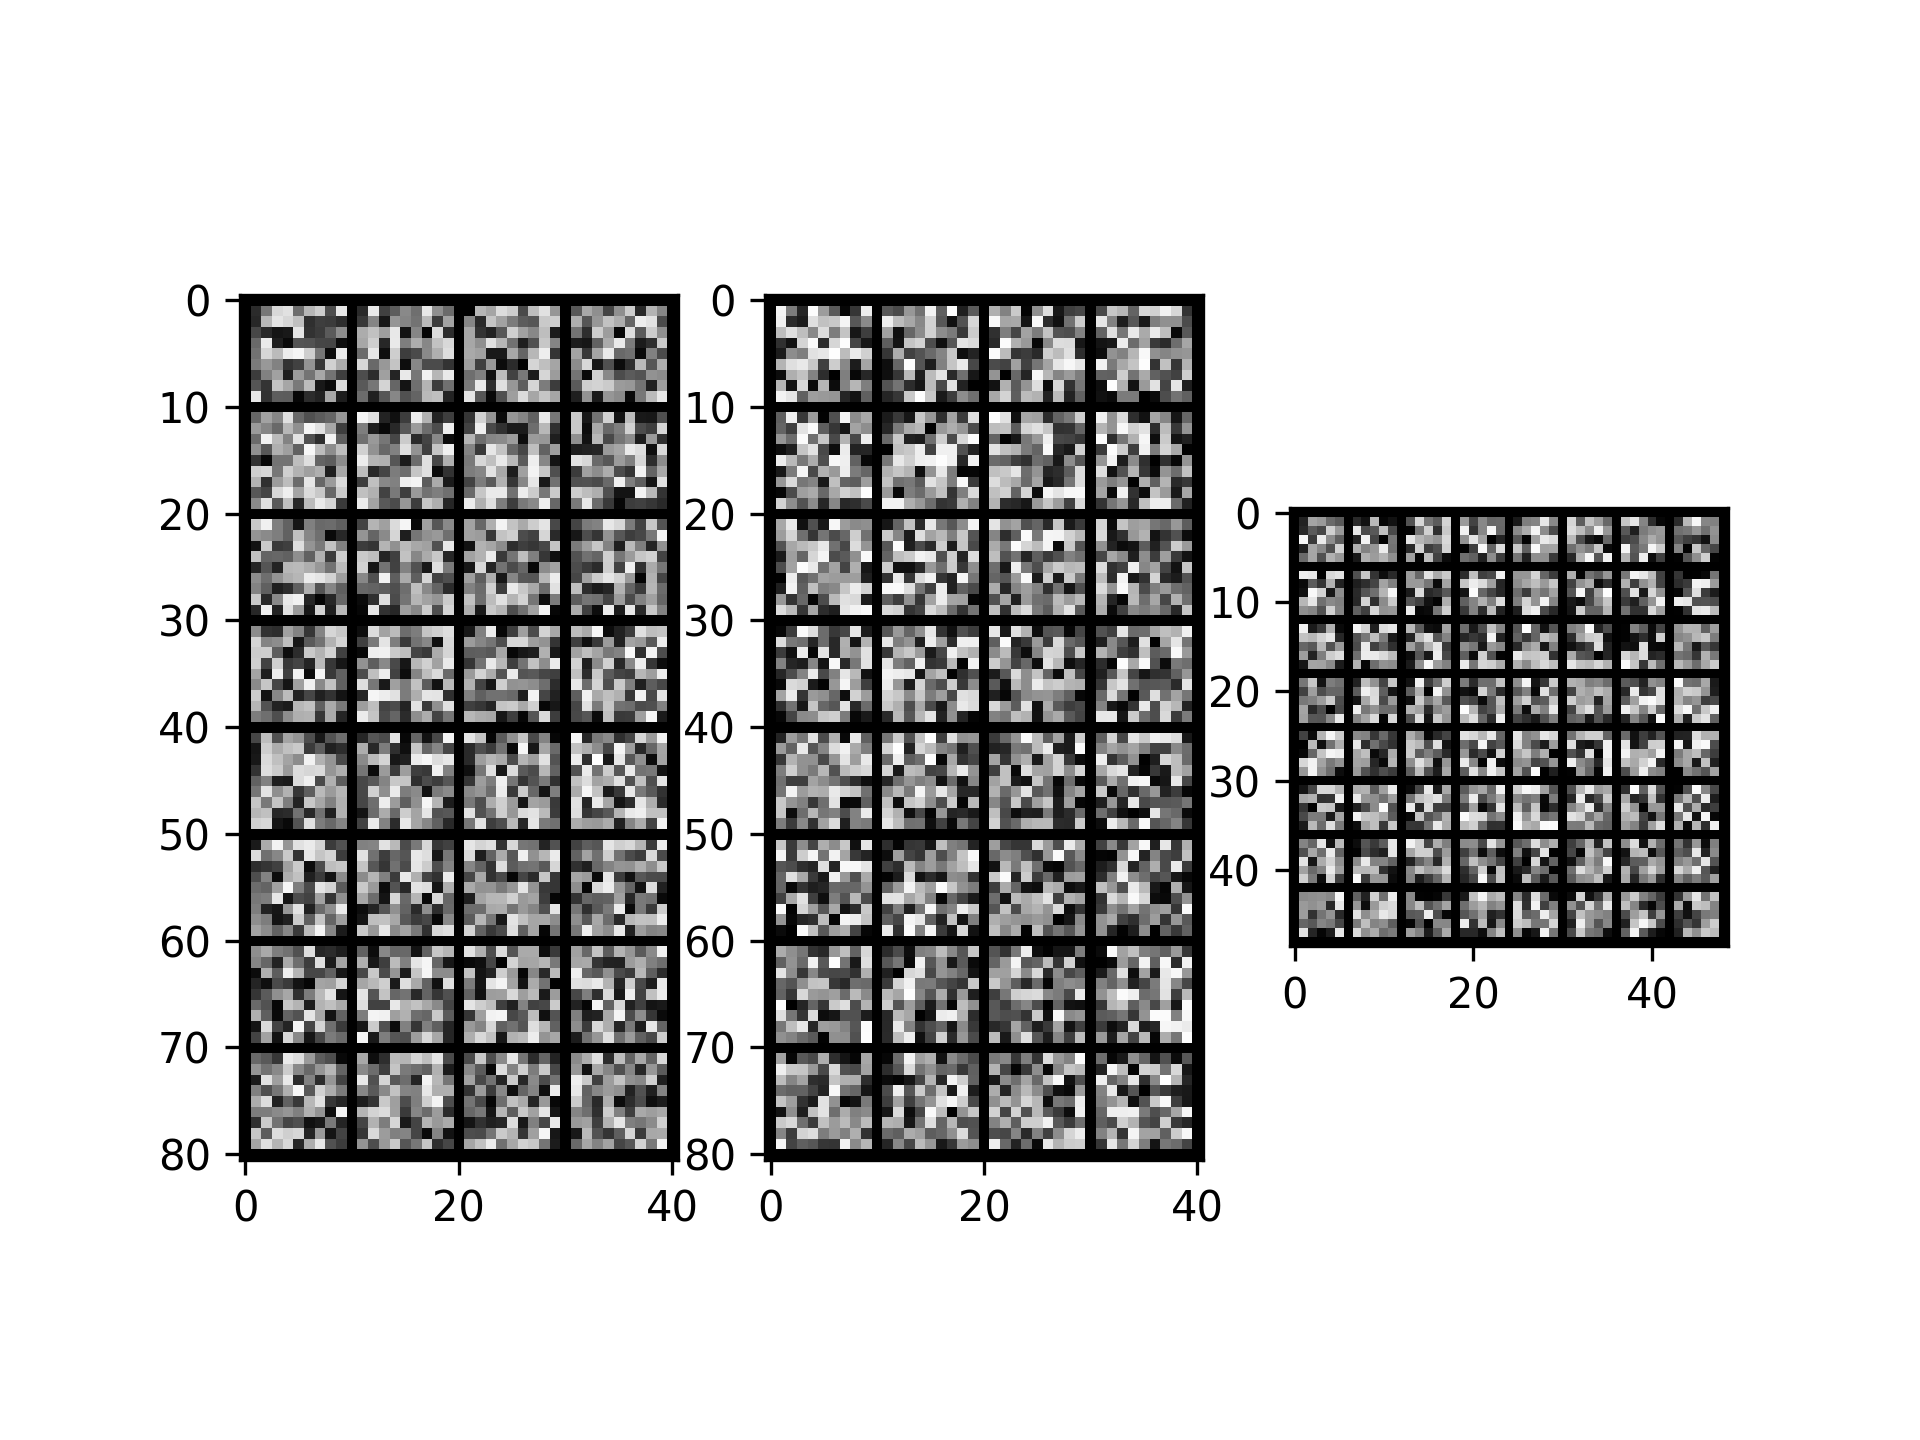
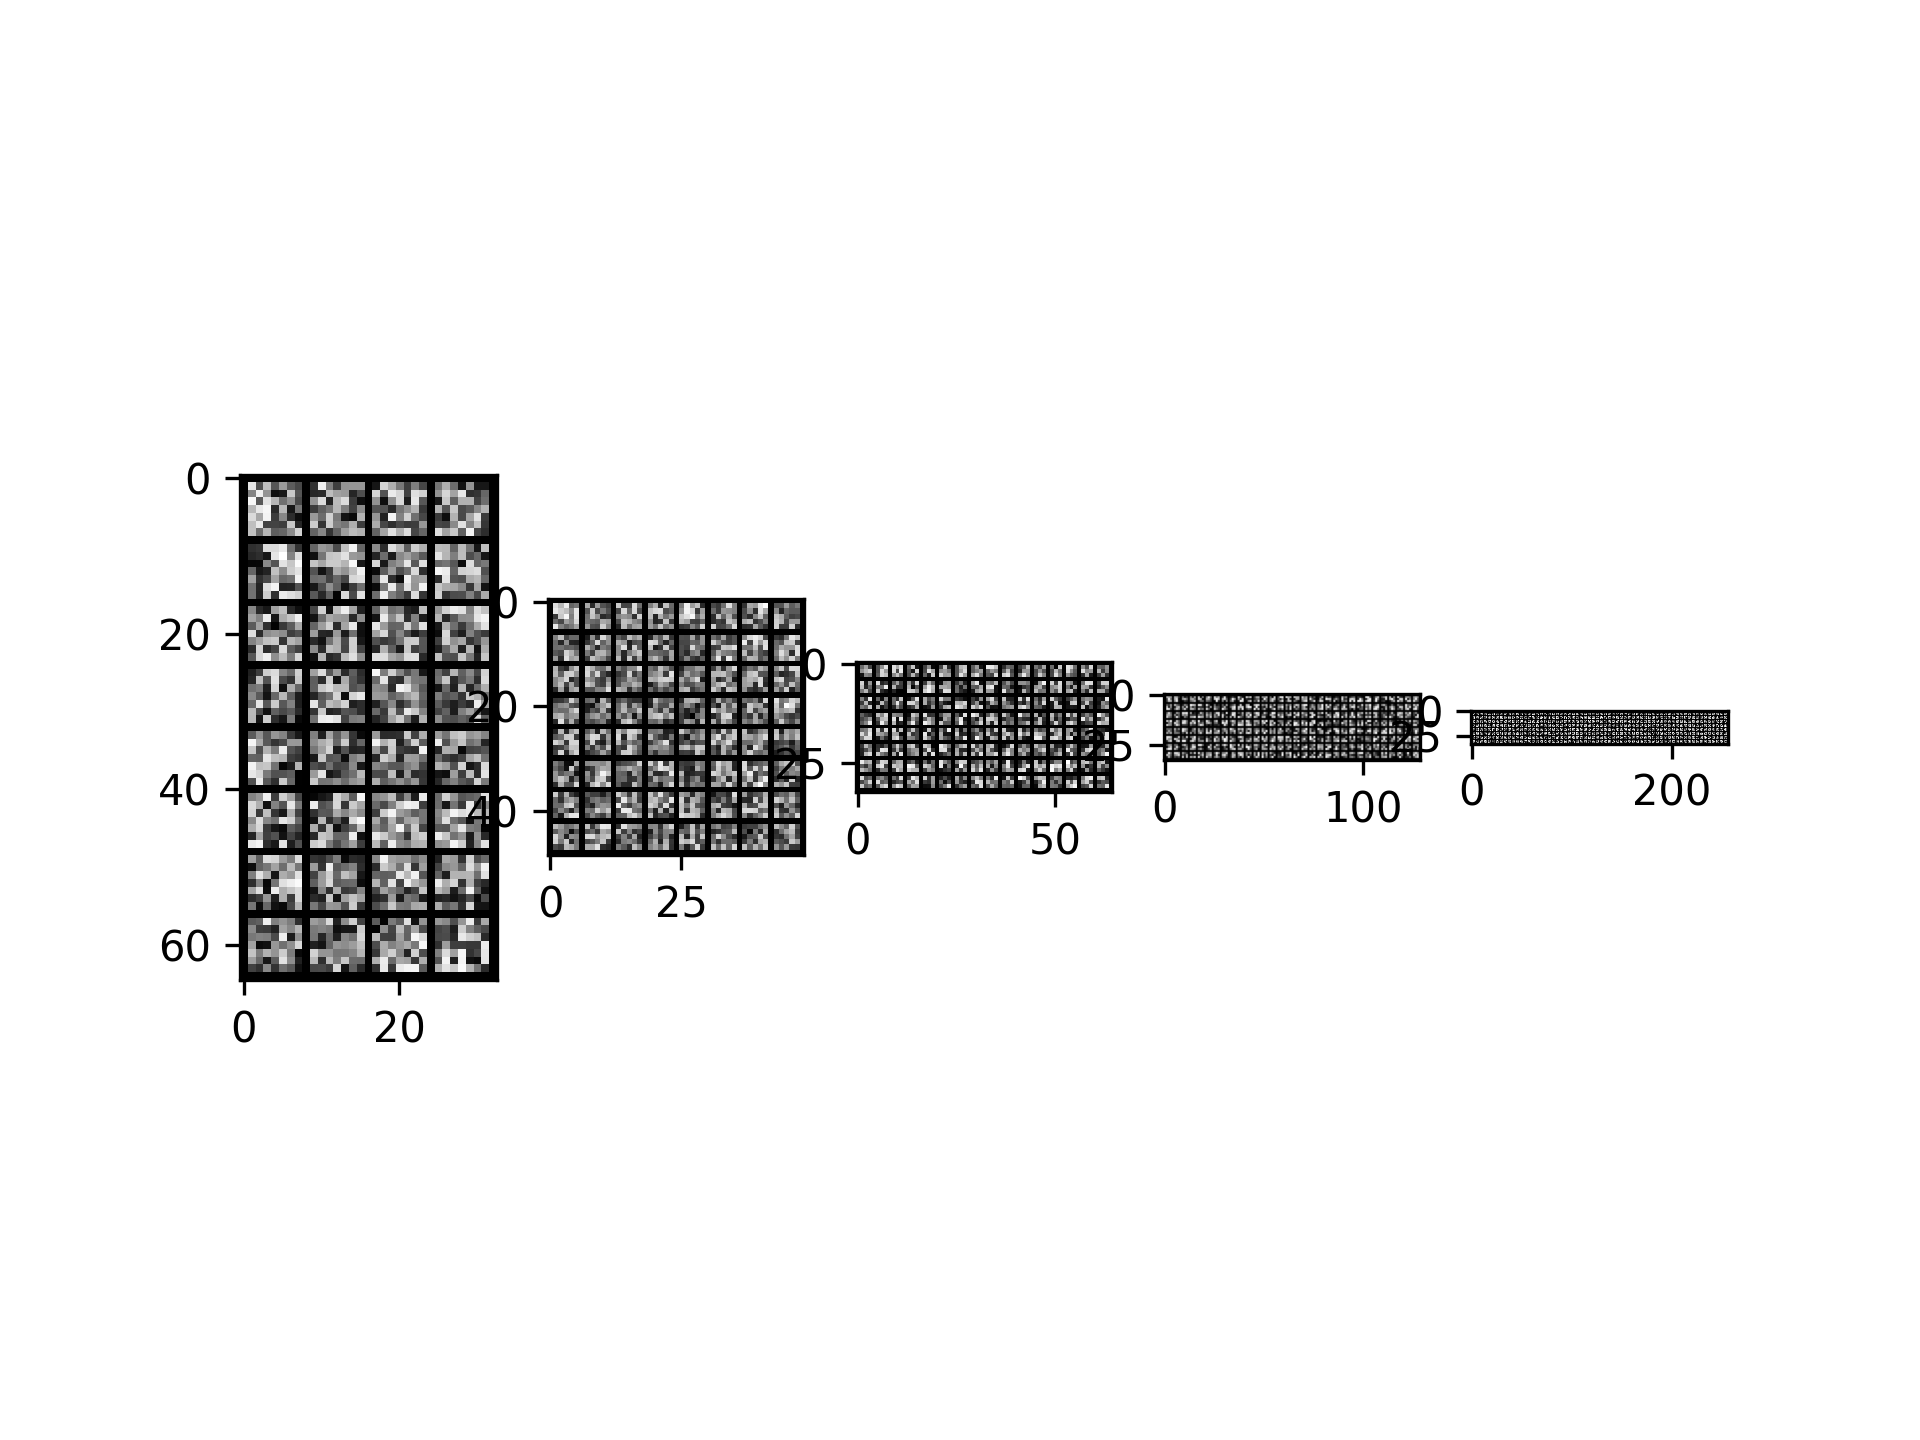
Made the CNN model larger to fix noisy validation loss

diff --git a/lib/models/CNN_128x128.py b/lib/models/CNN_128x128.py
@@ -16,35 +16,35 @@ class CNN_128x128(nn.Module):
         super(CNN_128x128,self).__init__()
         self.input_ch = input_channel
         self.num_classes = num_classes
-        self.channels = [32,32,64,64]
+        self.channels = [32,64,128,256,512]
 
         # Convolutional layers
-        self.conv1 = nn.Conv2d(in_channels=self.input_ch,out_channels=self.channels[0],kernel_size=(9),stride=(1))
-        self.conv2 = nn.Conv2d(in_channels=self.channels[0],out_channels=self.channels[1],kernel_size=(9),stride=(1))
-        self.conv3 = nn.Conv2d(in_channels=self.channels[1],out_channels=self.channels[2],kernel_size=(5),stride=(1))
-        self.conv4 = nn.Conv2d(in_channels=self.channels[2],out_channels=self.channels[3],kernel_size=(5),stride=(1))
-        self.drop1 = nn.Dropout2d(p=0.1)
+        self.conv1 = nn.Conv2d(in_channels=self.input_ch,out_channels=self.channels[0],kernel_size=(7),stride=(1))
+        self.conv2 = nn.Conv2d(in_channels=self.channels[0],out_channels=self.channels[1],kernel_size=(5),stride=(1))
+        self.conv3 = nn.Conv2d(in_channels=self.channels[1],out_channels=self.channels[2],kernel_size=(3),stride=(1))
+        self.conv4 = nn.Conv2d(in_channels=self.channels[2],out_channels=self.channels[3],kernel_size=(3),stride=(1))
+        self.conv5 = nn.Conv2d(in_channels=self.channels[3],out_channels=self.channels[4],kernel_size=(3),stride=(1))
 
         # Flatten layer (from ConvLayer to fully-connected)
         self.flat = nn.Flatten()
 
-        self.fc1 = nn.Linear(576,64)
-        self.fc2 = nn.Linear(64, 32)
+        self.fc1 = nn.Linear(51200,64)
         self.drop2 = nn.Dropout(p=0.5)
-        self.fc3 = nn.Linear(64, self.num_classes)
+        self.fc2 = nn.Linear(64, self.num_classes)
         
 
     def forward(self,x):
         # CNN phase
-        x = F.relu(F.max_pool2d(self.conv1(x), 2))
-        x = F.relu(F.max_pool2d(self.conv2(x), 2))
-        x = F.relu(F.max_pool2d(self.conv3(x), 2))
-        x = F.relu(F.max_pool2d(self.conv4(x), 2))
+        x = F.relu(F.max_pool2d(self.conv1(x), kernel_size=2, stride=2))
+        x = F.relu(F.max_pool2d(self.conv2(x), kernel_size=2, stride=2))
+        x = F.relu(self.conv3(x))
+        x = F.relu(F.max_pool2d(self.conv4(x), kernel_size=2, stride=2))
+        x = F.relu(self.conv5(x))
 
         x = self.flat(x)    # flat the data to get a vector for FC layers
 
         # FC phase
         x = F.relu(self.fc1(x))
         x = self.drop2(x)
-        x = self.fc3(x)
+        x = self.fc2(x)
         return x

diff --git a/k_fold_classification.py b/k_fold_classification.py
@@ -42,6 +42,8 @@ def classify(display = False):
     results_path = settings['results_path']
     current_results_path = f"{results_path}{handler.get_folder_index(results_path)}"
 
+    print(current_results_path)
+
     if not os.path.isdir(current_results_path):
         os.makedirs(current_results_path)
 
@@ -116,7 +118,7 @@ def classify(display = False):
     training_axs[1][0].set_ylim(0, max_loss)
     training_axs[1][1].set_ylim(min_acc, 1)
 
-    training_fig.show()    
+    #training_fig.show()    
     training_fig.savefig(f"{current_results_path}/training_infos_{i}.png", dpi=300)
         
     # Load best models
@@ -138,20 +140,20 @@ def classify(display = False):
     axs[0].set_title('CNN')
     NN_metrics.confMatDisplay().plot(ax = axs[1])
     axs[1].set_title('NN')
-    fig.show()
+    #fig.show()
     fig.savefig(f"{current_results_path}/conf_mat.png", dpi=300)
 
     cnn_inspect = explorer(CNN)        
     fig = cnn_inspect.show_filters(current_results_path)
-    fig.show()
+    #fig.show()
     fig.savefig(f"{current_results_path}/CNN_filters.png", dpi=300)    
     
     file = open(f"{current_results_path}/info.txt", 'w')
     file.write(f"{settings}\n{CNN_metrics.getMetrics(type='CNN')}\n{NN_metrics.getMetrics(type='NN')}\n")
     file.write(f'{scatter.info}')
     file.close()
-    
-    input()
+
+    print("Done")
 
 
 

diff --git a/lib/scripts/make_settings.py b/lib/scripts/make_settings.py
@@ -17,7 +17,7 @@ generic = {
     # Size of the input images
     "imageSize" : (128, 128),
     #The number of samples (images) used
-    "num_samples" : 500,  #max 2774 (with flowers) # max 4100 with whales (3 class)
+    "num_samples" : 2000,  #max 2774 (with flowers) # max 4100 with whales (3 class)
     # How many training epochs for every validation
     "epoch_val": 5,
     #The number of folds of KFold
@@ -26,11 +26,11 @@ generic = {
 
 model_hyperparameters = {
     # Learning rate to scale how much new weighs are evaluated
-    "learning_rate": 0.001,
+    "learning_rate": 0.0005,
     # Scale for past experience to not be perturbated by new ones
     "momentum" : 0.9,
     # The number of times the model is trained on the entire training dataset.
-    "num_epochs" : 500
+    "num_epochs" : 60
 }
 
 scattering_parameters = {

diff --git a/lib/models/NN_128x128.py b/lib/models/NN_128x128.py
@@ -17,20 +17,21 @@ class NN_128x128(nn.Module):
         self.input_ch = input_channel
         self.num_classes = num_classes
 
+        print(data_size)
+
         #print(data_size)
 
         # Flatten layer (from ConvLayer to fully-connected)
         self.flat = nn.Flatten()
 
         self.fc1 = nn.Linear(data_size,64)
-        self.fc2 = nn.Linear(64, 32)
         self.drop2 = nn.Dropout(p=0.5)
-        self.fc3 = nn.Linear(64,self.num_classes)
+        self.fc2 = nn.Linear(64,self.num_classes)
         
 
     def forward(self,x):
         # FC phase
         x = F.relu(self.fc1(x))
         x = self.drop2(x)
-        x = self.fc3(x)
+        x = self.fc2(x)
         return x
